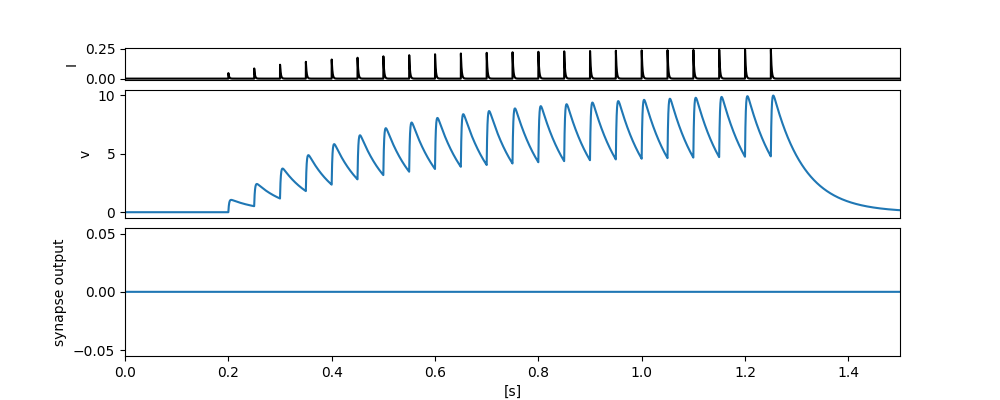
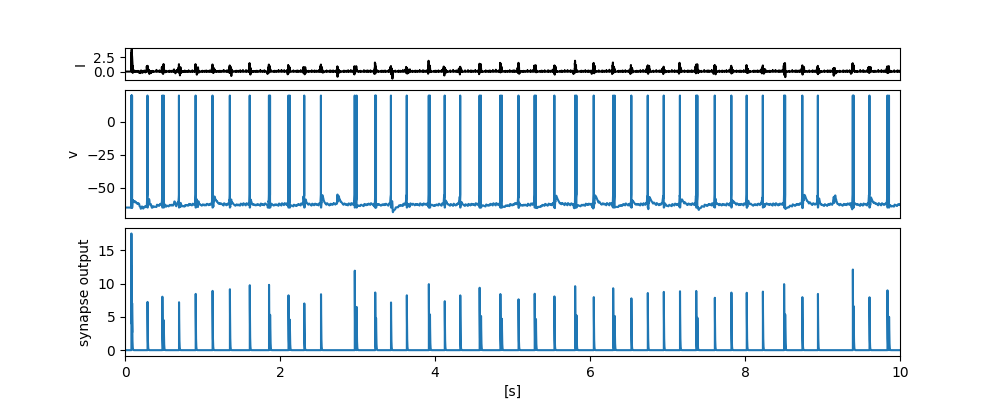
軽微な修正

Changed region(s): [[0.062, 0.12, 0.899, 0.54], [0.031, 0.57, 0.899, 0.96], [0.837, 0.93, 0.868, 0.96]]

diff --git a/demo_LIF.py b/demo_LIF.py
@@ -11,10 +11,9 @@ from src.Synapses import tsodyks_markram
 import random
 
 if __name__ == "__main__":
-    seed = int(random.random() * 1000)
-    # seed = 881  # random seed for reproducibility
-    ##やることリスト
-    #学習アルゴリズム追加
+    # seed = int(random.random() * 1000)
+
+    seed = 890
 
     # set a PQN cell
     N = int(input("number of neurons: "))
@@ -24,18 +23,15 @@ if __name__ == "__main__":
     # set a synapse
     synapses_out1 = tsodyks_markram(N, dt=dt, tau_rec=0.5, U=0.5)
 
-    #initialization
-    # length of simulation [s]
-    tmax=10
-    # set the number of iterations
+    # ---- initialization ----
+    tmax=10    # length of simulation [s]
     number_of_iterations=int(tmax/dt)
-
     v0= np.zeros((number_of_iterations, N))
     spike = np.zeros(N)
-    past_spike = np.zeros(N)
     resovoir_weight = np.zeros((N, N))
     random.seed(seed) # for reproducibility
 
+    # --- Create reservoir weights with clustered structure ---
     crust_idx = 0
     G = 0.05
     p = 0.05
@@ -45,16 +41,6 @@ if __name__ == "__main__":
         resovoir_weight[i1:i2, i1:i2] = ((G * np.random.randn(N//4, N//4)) / (np.sqrt(N) * p) + 1) * (np.random.rand(N//4, N//4) < p)
         # print(resovoir_weight[i1:i2, i1:i2])
         crust_idx += 1
-
-    # weights = G * np.random.randn(100000) / (np.sqrt(N) * p) + 1
-    # plt.figure(figsize=(8, 4))
-    # plt.hist(weights, bins=30, color='skyblue', edgecolor='black', density=True)
-    # plt.title("Distribution of G * randn(N) / (sqrt(N) * p) + 1")
-    # plt.xlabel("Weight Value")
-    # plt.ylabel("Probability Density")
-    # plt.tight_layout()
-    # plt.savefig("weight_distribution.png")
-    # plt.show()
 
     #クラスター間の接続
     M = 4
@@ -70,18 +56,7 @@ if __name__ == "__main__":
         if j_range2 > N:
             j_range2 = j_range2 % N
         resovoir_weight[i_range1:i_range2, j_range1:j_range2] = ((G * np.random.randn(N//4, N//4)) / (np.sqrt(N) * p) + 1) * (np.random.rand(N//4, N//4) < p)
-         
-    # weights = G * np.random.randn(100000) / (np.sqrt(N) * p) + 1
-    # plt.figure(figsize=(8, 4))
-    # plt.hist(weights, bins=30, color='skyblue', edgecolor='black', density=True)
-    # plt.title("Distribution of G * randn(N) / (sqrt(N) * p) + 1")
-    # plt.xlabel("Weight Value")
-    # plt.ylabel("Probability Density")
-    # plt.tight_layout()
-    # plt.savefig("weight_distribution.png")
-    # plt.show()
 
-    for hoge in range(M):
         i_range1 = int(((hoge+1)*N/4)%N)
         i_range2 = int((hoge+2)*N/4)
         if i_range2 > N:
@@ -92,11 +67,25 @@ if __name__ == "__main__":
             j_range2 = j_range2 % N
         resovoir_weight[i_range1:i_range2, j_range1:j_range2] = ((G * np.random.randn(N//4, N//4)) / (np.sqrt(N) * p) + 1) * (np.random.rand(N//4, N//4) < p)
 
+    # 抑制結合の設定
     base_mask = np.ones((N, int(N/4)))
     base_mask[:, N//5:] = -1
     mask = np.hstack([base_mask for _ in range(4)])
     resovoir_weight = resovoir_weight * mask
-    
+
+    # ---- 重み行列の可視化 ----
+    plt.figure(num=1, figsize=(8, 6))
+    max_abs = np.max(np.abs(resovoir_weight))
+    im = plt.imshow(resovoir_weight, aspect='auto', cmap='plasma', vmin=-max_abs, vmax=max_abs)
+    plt.gca().invert_yaxis()
+    plt.colorbar(im, label='Weight Value')
+    plt.title('Reservoir Weight Matrix')
+    plt.xlabel('Pre Neuron')
+    plt.ylabel('Post Neuron')
+    plt.tight_layout()
+    plt.savefig("resovoir_weight_matrix.png")
+    plt.show(block=False)
+
     # 正規化と自己結合強化
     for i in range(N):
         count = np.count_nonzero(resovoir_weight[i])
@@ -107,23 +96,20 @@ if __name__ == "__main__":
             synapses_out1.U[i] = 0.1
             synapses_out1.tau_rec[i] = 0.1
 
-    # print(resovoir_weight)
 
-    # ---  NetworkX グラフに変換 ---
+    # ----  NetworkX グラフに変換 ----
     G = nx.DiGraph()
     for i in range(N):
         for j in range(N):
             w = resovoir_weight[i][j]
             if w != 0:
                 G.add_edge(j, i, weight=w)  # j→i（pre→post）
-    #   ノード配置（円形 or 自動レイアウト） 
-    pos = nx.spring_layout(G, seed=seed)  # spring_layout / circular_layout など
-    #   エッジ属性（色と太さ） 
-    edges = G.edges(data=True)
+    pos = nx.spring_layout(G, seed=seed)    #   ノード配置（円形 or 自動レイアウト） 
+    edges = G.edges(data=True)              #   エッジ属性（色と太さ） 
     edge_colors = ['red' if d['weight'] > 0 else 'blue' for (u, v, d) in edges]
     edge_widths = [abs(d['weight']) for (u, v, d) in edges]
     #   可視化 
-    plt.figure(num=1, figsize=(8, 8))
+    plt.figure(num=2, figsize=(8, 8))
     nx.draw_networkx_nodes(G, pos, node_size=5, node_color="lightgray")
     nx.draw_networkx_edges(G, pos, edge_color=edge_colors, width=edge_widths, arrows=True, arrowstyle='-|>')
     plt.title("Reservoir Network Graph")
@@ -132,7 +118,7 @@ if __name__ == "__main__":
     plt.savefig("network.png")
     plt.show(block=False)
 
-    # set step input
+    # ---- set step input ----
     I=np.zeros((number_of_iterations, N))
     for i in range(100):
         temp = 0.9*random.random()/dt
@@ -147,38 +133,38 @@ if __name__ == "__main__":
     # delay = np.random.randint(0.03//dt, 0.5//dt)  # delay for all neuron
     # delays = np.full(N, delay-1)  # uniform delay for all neurons
 
-    # run simulatiion
+    # ---- run simulatiion ----
     start = time.perf_counter()
     for i in tqdm(range(number_of_iterations)):
         I[i] += next_input
         rasters[i], v0[i] = cell0.calc(inputs=I[i], itr=i)  # update cell state
         rows = delays + i
-        output[rows, cols] = 35*synapses_out1(rasters[i])  # [nA]
+        output[rows, cols] = 35*synapses_out1(rasters[i], i)  # [nA]
         next_input = np.dot(resovoir_weight, output[i])  # update input for next iteration
     end = time.perf_counter()
 
     print(f"processing time for {tmax}s simulation mas {(end - start)} s when reservoir_size was {N}")
     print(f"seed value was {seed}")
 
-    # plot simulation result
-    fig = plt.figure(num=2, figsize=(10,4))
+    # ---- plot simulation result ----
+    fig = plt.figure(num=3, figsize=(10,4))
     spec = gridspec.GridSpec(ncols=1, nrows=3, figure=fig, hspace=0.1, height_ratios=[1, 4, 4])
-    ax2 = fig.add_subplot(spec[0])
-    ax0 = fig.add_subplot(spec[1])
-    ax1 = fig.add_subplot(spec[2])
+    ax0 = fig.add_subplot(spec[0])
+    ax1 = fig.add_subplot(spec[1])
+    ax2 = fig.add_subplot(spec[2])
     times, neuron_ids = np.nonzero(rasters)
-    ax0.plot([i*dt for i in range(0, number_of_iterations)], v0[:,0])    
-    ax0.set_xlim(0, tmax)
-    ax0.set_ylabel("v")
     ax0.set_xticks([])
-    ax1.plot([i*dt for i in range(0, number_of_iterations)], output[:number_of_iterations,0])
+    ax0.plot([i*dt for i in range(0, number_of_iterations)], I[:,0], color="black")
+    ax0.set_xlim(0, tmax)
+    ax1.plot([i*dt for i in range(0, number_of_iterations)], v0[:,0])    
     ax1.set_xlim(0, tmax)
-    ax1.set_ylabel("synapse output")
-    ax2.set_xticks([])
-    ax2.plot([i*dt for i in range(0, number_of_iterations)], I[:,0], color="black")
+    ax1.set_ylabel("v")
+    ax1.set_xticks([])
+    ax2.plot([i*dt for i in range(0, number_of_iterations)], output[:number_of_iterations,0])
     ax2.set_xlim(0, tmax)
-    ax1.set_xlabel("[s]")
-    ax2.set_ylabel("I")
+    ax2.set_ylabel("synapse output")
+    ax0.set_ylabel("I")
+    ax2.set_xlabel("[s]")
     fig.savefig("single_neuron.png")
 
     times, neuron_ids = np.nonzero(rasters)
@@ -187,7 +173,7 @@ if __name__ == "__main__":
     cluster_colors = ['red', 'blue', 'green', 'orange']
     cluster_id = ((neuron_ids - 1) // (N // 4))  # 0,1,2,3 のクラスタID
     colors = [cluster_colors[c % 4] for c in cluster_id]
-    plt.figure(figsize=(9, 5))
+    plt.figure(num=4, figsize=(9, 5))
     plt.scatter(times, neuron_ids, s=1, color=colors)
     plt.xlabel("time")
     plt.xlim(0, tmax)
@@ -196,14 +182,4 @@ if __name__ == "__main__":
     plt.title("Raster Plot")
     plt.tight_layout()
     plt.savefig("raster.png")
-
-    plt.figure(figsize=(8, 6))
-    max_abs = np.max(np.abs(resovoir_weight))
-    im = plt.imshow(resovoir_weight, aspect='auto', cmap='bwr', vmin=-max_abs, vmax=max_abs)  # 0が白になる
-    plt.colorbar(im, label='Weight Value')
-    plt.title('Reservoir Weight Matrix')
-    plt.xlabel('Pre Neuron')
-    plt.ylabel('Post Neuron')
-    plt.tight_layout()
-    plt.savefig("resovoir_weight_matrix.png")
     plt.show()

diff --git a/PSP_test.py b/PSP_test.py
@@ -56,23 +56,22 @@ if __name__ == "__main__":
     # plot simulation result
     fig = plt.figure(num=2, figsize=(10,4))
     spec = gridspec.GridSpec(ncols=1, nrows=3, figure=fig, hspace=0.1, height_ratios=[1, 4, 4])
-    ax2 = fig.add_subplot(spec[0])
-    ax0 = fig.add_subplot(spec[1])
-    ax1 = fig.add_subplot(spec[2])
+    ax0 = fig.add_subplot(spec[0])
+    ax1 = fig.add_subplot(spec[1])
+    ax2 = fig.add_subplot(spec[2])
     times, neuron_ids = np.nonzero(rasters)
-    ax0.plot([i*dt for i in range(0, number_of_iterations)], v0[:,0])    
-    ax0.set_xlim(0, tmax)
-    ax0.set_ylabel("v")
-    # ax0.set_ylim(0.0, 1.0)
     ax0.set_xticks([])
-    ax1.plot([i*dt for i in range(0, number_of_iterations)], output[:number_of_iterations,0])
+    ax0.plot([i*dt for i in range(0, number_of_iterations)], I[:,0], color="black")
+    ax0.set_xlim(0, tmax)
+    ax1.plot([i*dt for i in range(0, number_of_iterations)], v0[:,0])    
     ax1.set_xlim(0, tmax)
-    ax1.set_ylabel("synapse output")
-    ax2.set_xticks([])
-    ax2.plot([i*dt for i in range(0, number_of_iterations)], I[:,0], color="black")
+    ax1.set_ylabel("v")
+    ax1.set_xticks([])
+    ax2.plot([i*dt for i in range(0, number_of_iterations)], output[:number_of_iterations,0])
     ax2.set_xlim(0, tmax)
-    ax1.set_xlabel("[s]")
-    ax2.set_ylabel("I")
+    ax2.set_ylabel("synapse output")
+    ax0.set_ylabel("I")
+    ax2.set_xlabel("[s]")
     fig.savefig("single_neuron.png")
 
     times, neuron_ids = np.nonzero(rasters)

diff --git a/demo.py b/demo.py
@@ -127,22 +127,22 @@ if __name__ == "__main__":
     # plot simulation result
     fig = plt.figure(num=2, figsize=(10,4))
     spec = gridspec.GridSpec(ncols=1, nrows=3, figure=fig, hspace=0.1, height_ratios=[1, 4, 4])
-    ax2 = fig.add_subplot(spec[0])
-    ax0 = fig.add_subplot(spec[1])
-    ax1 = fig.add_subplot(spec[2])
+    ax0 = fig.add_subplot(spec[0])
+    ax1 = fig.add_subplot(spec[1])
+    ax2 = fig.add_subplot(spec[2])
     times, neuron_ids = np.nonzero(rasters)
-    ax0.plot([i*dt for i in range(0, number_of_iterations)], v0[:,0])    
-    ax0.set_xlim(0, tmax)
-    ax0.set_ylabel("v")
     ax0.set_xticks([])
-    ax1.plot([i*dt for i in range(0, number_of_iterations)], output[:number_of_iterations,0])
+    ax0.plot([i*dt for i in range(0, number_of_iterations)], I[:,0], color="black")
+    ax0.set_xlim(0, tmax)
+    ax1.plot([i*dt for i in range(0, number_of_iterations)], v0[:,0])    
     ax1.set_xlim(0, tmax)
-    ax1.set_ylabel("synapse output")
-    ax2.set_xticks([])
-    ax2.plot([i*dt for i in range(0, number_of_iterations)], I[:,0], color="black")
+    ax1.set_ylabel("v")
+    ax1.set_xticks([])
+    ax2.plot([i*dt for i in range(0, number_of_iterations)], output[:number_of_iterations,0])
     ax2.set_xlim(0, tmax)
-    ax1.set_xlabel("[s]")
-    ax2.set_ylabel("I")
+    ax2.set_ylabel("synapse output")
+    ax0.set_ylabel("I")
+    ax2.set_xlabel("[s]")
     fig.savefig("single_neuron.png")
 
     times, neuron_ids = np.nonzero(rasters)

diff --git a/demo_PQN.py b/demo_PQN.py
@@ -130,22 +130,22 @@ if __name__ == "__main__":
     # plot simulation result
     fig = plt.figure(num=2, figsize=(10,4))
     spec = gridspec.GridSpec(ncols=1, nrows=3, figure=fig, hspace=0.1, height_ratios=[1, 4, 4])
-    ax2 = fig.add_subplot(spec[0])
-    ax0 = fig.add_subplot(spec[1])
-    ax1 = fig.add_subplot(spec[2])
+    ax0 = fig.add_subplot(spec[0])
+    ax1 = fig.add_subplot(spec[1])
+    ax2 = fig.add_subplot(spec[2])
     times, neuron_ids = np.nonzero(rasters)
-    ax0.plot([i*dt for i in range(0, number_of_iterations)], v0[:,0])    
-    ax0.set_xlim(0, tmax)
-    ax0.set_ylabel("v")
     ax0.set_xticks([])
-    ax1.plot([i*dt for i in range(0, number_of_iterations)], output[:number_of_iterations,0])
+    ax0.plot([i*dt for i in range(0, number_of_iterations)], I[:,0], color="black")
+    ax0.set_xlim(0, tmax)
+    ax1.plot([i*dt for i in range(0, number_of_iterations)], v0[:,0])    
     ax1.set_xlim(0, tmax)
-    ax1.set_ylabel("synapse output")
-    ax2.set_xticks([])
-    ax2.plot([i*dt for i in range(0, number_of_iterations)], I[:,0], color="black")
+    ax1.set_ylabel("v")
+    ax1.set_xticks([])
+    ax2.plot([i*dt for i in range(0, number_of_iterations)], output[:number_of_iterations,0])
     ax2.set_xlim(0, tmax)
-    ax1.set_xlabel("[s]")
-    ax2.set_ylabel("I")
+    ax2.set_ylabel("synapse output")
+    ax0.set_ylabel("I")
+    ax2.set_xlabel("[s]")
     fig.savefig("single_neuron.png")
 
     times, neuron_ids = np.nonzero(rasters)
